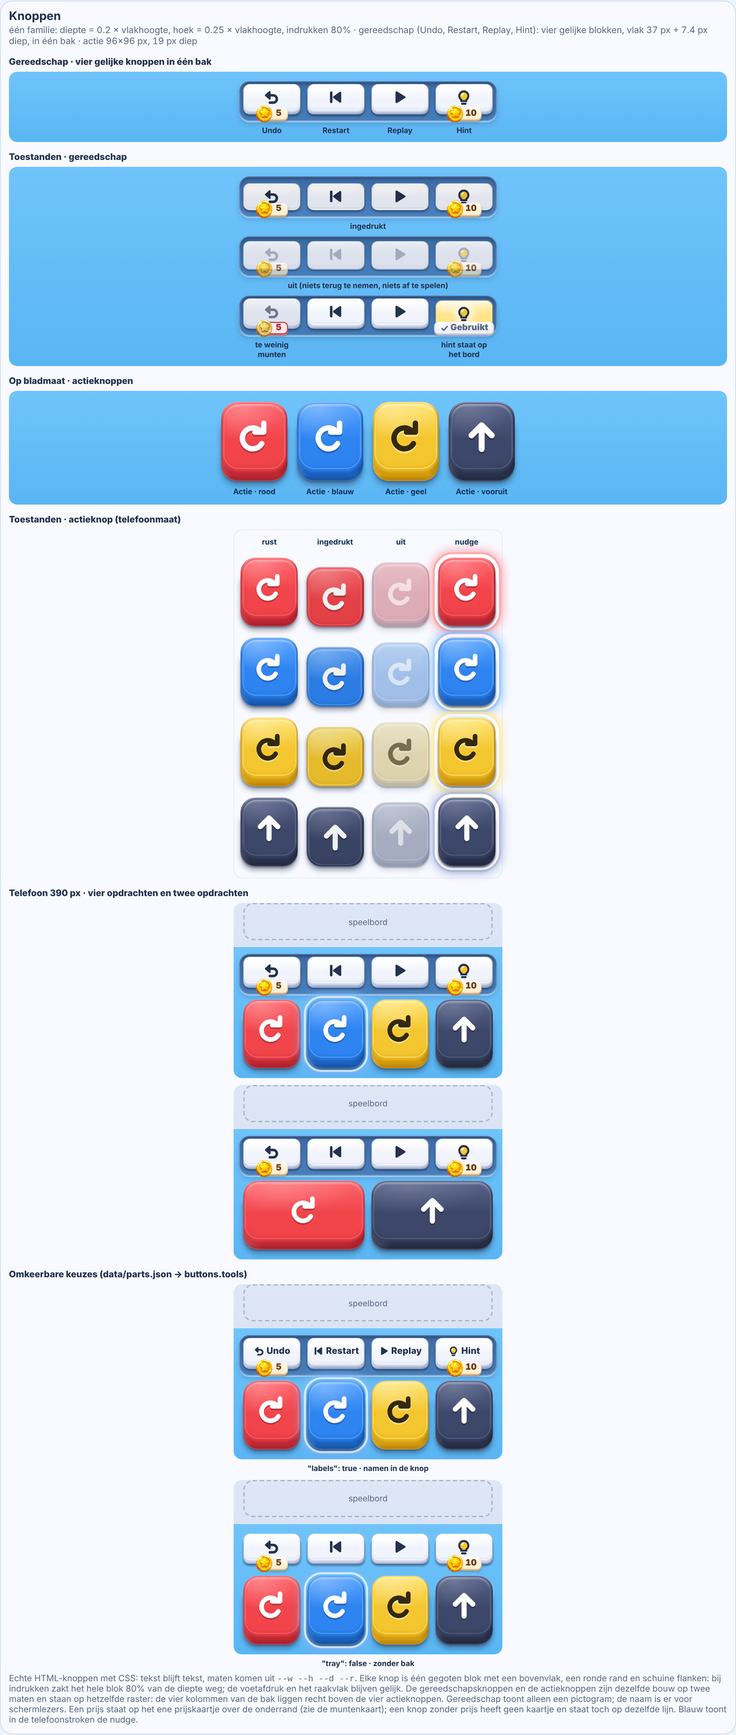
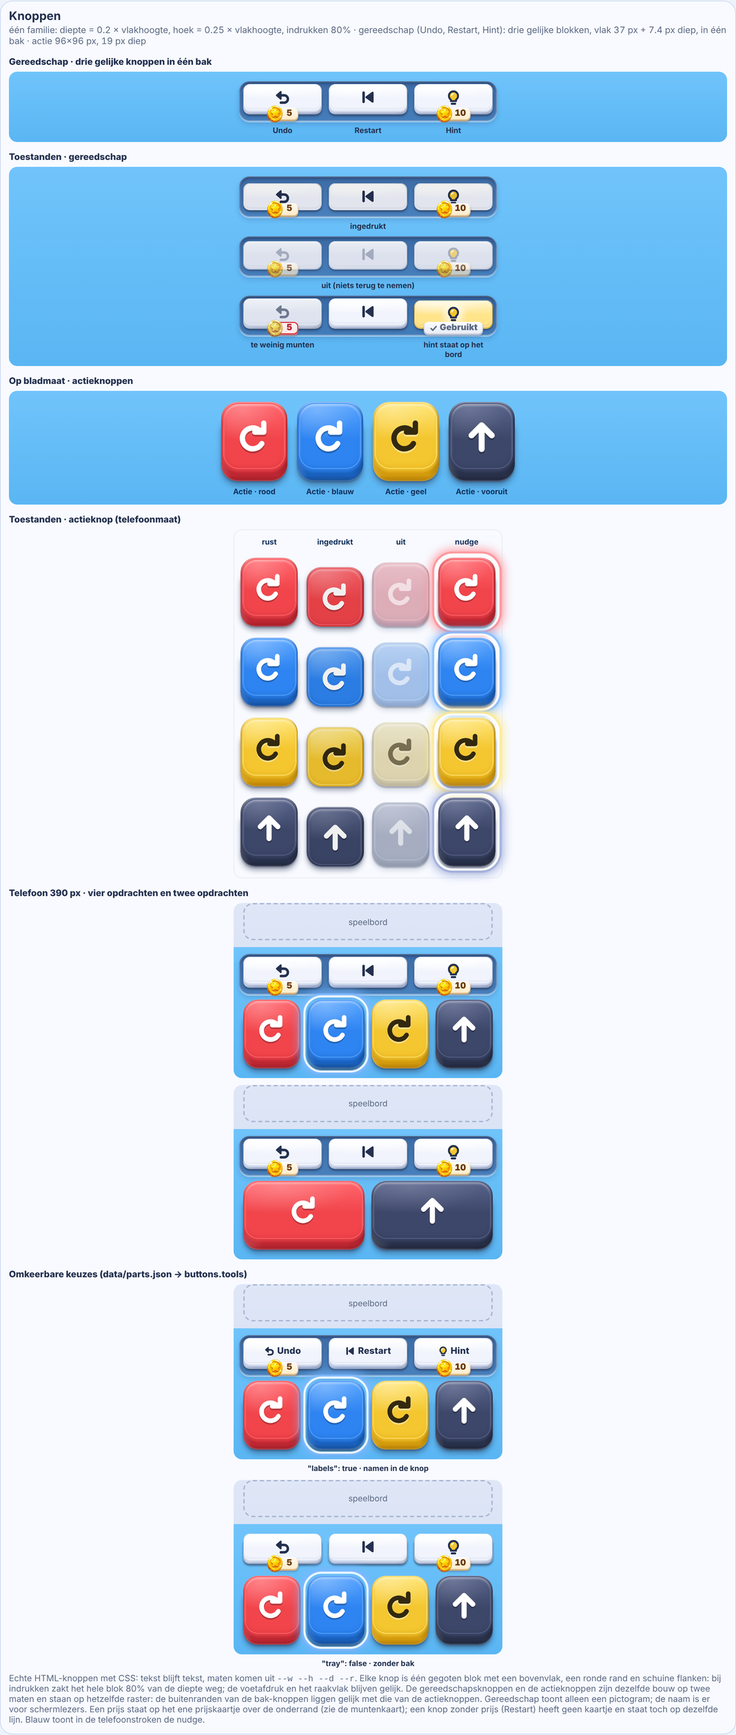
feat: drop Replay from the puzzle screen's tools (finding B9)
The owner does not need Replay during play; it stays on the win pop-up.
The tray now holds three equal tools (Undo, Restart, Hint) and takes any
number of them. The earlier B9 screenshots with four tools are kept as the
record of the first pass; B9-no-replay-* show the result.

Finding: B9 (production/findings.md)

Claude-Session: https://claude.ai/code/session_01PBSmYtD2jx8mxAakiG6F2L

diff --git a/src/parts/main.ts b/src/parts/main.ts
@@ -320,7 +320,7 @@ for (const [cols, rows] of [[5, 5], [6, 6], [8, 8], [4, 7]] as const) {
   const COLORS = ['red', 'blue', 'yellow', 'forward'] as const;
   const COLOR_NAMES = { red: 'rood', blue: 'blauw', yellow: 'geel', forward: 'vooruit' } as const;
 
-  const TOOLS: ToolName[] = ['Undo', 'Restart', 'Replay', 'Hint'];
+  const TOOLS: ToolName[] = ['Undo', 'Restart', 'Hint'];
   const coins = CONFIG.coins;
   /** The four tools as the puzzle screen shows them; `state` freezes all four in one state. */
   const tools = (state: State = ''): string[] =>
@@ -336,14 +336,14 @@ for (const [cols, rows] of [[5, 5], [6, 6], [8, 8], [4, 7]] as const) {
   const el = document.createElement('section');
   el.className = 'card wide';
   el.id = 'buttons';
-  el.innerHTML = `<h2>Knoppen</h2><p class="dims">één familie: diepte = ${b.family.depth} × vlakhoogte, hoek = ${b.family.radius} × vlakhoogte, indrukken ${Math.round(b.pressFraction * 100)}% · gereedschap (Undo, Restart, Replay, Hint): vier gelijke blokken, vlak ${t.height} px + ${toolDepth} px diep, in één bak · actie ${b.action.width}×${b.action.height} px, ${b.action.depth} px diep</p>
-  <h3 class="btn-title">Gereedschap · vier gelijke knoppen in één bak</h3>
+  el.innerHTML = `<h2>Knoppen</h2><p class="dims">één familie: diepte = ${b.family.depth} × vlakhoogte, hoek = ${b.family.radius} × vlakhoogte, indrukken ${Math.round(b.pressFraction * 100)}% · gereedschap (Undo, Restart, Hint): drie gelijke blokken, vlak ${t.height} px + ${toolDepth} px diep, in één bak · actie ${b.action.width}×${b.action.height} px, ${b.action.depth} px diep</p>
+  <h3 class="btn-title">Gereedschap · drie gelijke knoppen in één bak</h3>
   <div id="buttons-sheet">${toolTray(tools())}<div class="tf-tools-caption">${TOOLS.map((n) => `<span>${n}</span>`).join('')}</div></div>
   <h3 class="btn-title">Toestanden · gereedschap</h3>
   <div id="buttons-states-utility">
     ${toolTray(tools('pressed'))}<div class="tf-tools-caption wide"><span>ingedrukt</span></div>
-    ${toolTray(tools('disabled'))}<div class="tf-tools-caption wide"><span>uit (niets terug te nemen, niets af te spelen)</span></div>
-    ${toolTray([toolButton('Undo', { cost: coins.undoCost, price: 'short' }), toolButton('Restart'), toolButton('Replay'), toolButton('Hint', { cost: coins.hintCost, price: 'used' })])}<div class="tf-tools-caption"><span>te weinig munten</span><span></span><span></span><span>hint staat op het bord</span></div>
+    ${toolTray(tools('disabled'))}<div class="tf-tools-caption wide"><span>uit (niets terug te nemen)</span></div>
+    ${toolTray([toolButton('Undo', { cost: coins.undoCost, price: 'short' }), toolButton('Restart'), toolButton('Hint', { cost: coins.hintCost, price: 'used' })])}<div class="tf-tools-caption"><span>te weinig munten</span><span></span><span>hint staat op het bord</span></div>
   </div>
   <h3 class="btn-title">Op bladmaat · actieknoppen</h3>
   <div class="btn-row" id="buttons-sheet-action">
@@ -360,7 +360,7 @@ for (const [cols, rows] of [[5, 5], [6, 6], [8, 8], [4, 7]] as const) {
   <h3 class="btn-title">Omkeerbare keuzes (data/parts.json → buttons.tools)</h3>
   ${phone('buttons-phone-labels', COLORS, ' labels')}<div class="tf-tools-caption wide"><span>"labels": true · namen in de knop</span></div>
   ${phone('buttons-phone-notray', COLORS, ' no-tray')}<div class="tf-tools-caption wide"><span>"tray": false · zonder bak</span></div>
-  <p class="note">Echte HTML-knoppen met CSS: tekst blijft tekst, maten komen uit <code>--w --h --d --r</code>. Elke knop is één gegoten blok met een bovenvlak, een ronde rand en schuine flanken: bij indrukken zakt het hele blok ${Math.round(b.pressFraction * 100)}% van de diepte weg; de voetafdruk en het raakvlak blijven gelijk. De gereedschapsknoppen en de actieknoppen zijn dezelfde bouw op twee maten en staan op hetzelfde raster: de vier kolommen van de bak liggen recht boven de vier actieknoppen. Gereedschap toont alleen een pictogram; de naam is er voor schermlezers. Een prijs staat op het ene prijskaartje over de onderrand (zie de muntenkaart); een knop zonder prijs heeft geen kaartje en staat toch op dezelfde lijn. Blauw toont in de telefoonstroken de nudge.</p>`;
+  <p class="note">Echte HTML-knoppen met CSS: tekst blijft tekst, maten komen uit <code>--w --h --d --r</code>. Elke knop is één gegoten blok met een bovenvlak, een ronde rand en schuine flanken: bij indrukken zakt het hele blok ${Math.round(b.pressFraction * 100)}% van de diepte weg; de voetafdruk en het raakvlak blijven gelijk. De gereedschapsknoppen en de actieknoppen zijn dezelfde bouw op twee maten en staan op hetzelfde raster: de buitenranden van de bak-knoppen liggen gelijk met die van de actieknoppen. Gereedschap toont alleen een pictogram; de naam is er voor schermlezers. Een prijs staat op het ene prijskaartje over de onderrand (zie de muntenkaart); een knop zonder prijs (Restart) heeft geen kaartje en staat toch op dezelfde lijn. Blauw toont in de telefoonstroken de nudge.</p>`;
   document.getElementById('sheet')!.appendChild(el);
 }
 

diff --git a/src/parts/coins.ts b/src/parts/coins.ts
@@ -83,7 +83,6 @@ const path = (d: string, width: number): string => `<path d="${d}" fill="none" s
 export const TOOL_ICONS = {
   Undo: `<path d="M9.4 4.2 3.6 9.3l5.8 5.1z" fill="currentColor" stroke="currentColor" stroke-width="2.4" stroke-linejoin="round"/>` + path('M9 9.3h5.4a5.3 5.3 0 0 1 0 10.6H9.6', 3.6),
   Restart: path('M5.6 5.4v13.2', 3.6) + `<path d="M18.6 5.6v12.8L9.8 12z" fill="currentColor" stroke="currentColor" stroke-width="3" stroke-linejoin="round"/>`,
-  Replay: `<path d="M7.4 5v14l11.4-7z" fill="currentColor" stroke="currentColor" stroke-width="3" stroke-linejoin="round"/>`,
   Hint: `<path d="M8.3 15.6a6.6 6.6 0 1 1 7.4 0v2H8.3z" fill="#f4c62f" stroke="currentColor" stroke-width="2.8" stroke-linejoin="round"/>` + path('M9.6 21.4h4.8', 3) + `<path d="M9.3 9.4a2.9 2.9 0 0 1 2.2-2.2" fill="none" stroke="#fff" stroke-width="1.7" stroke-linecap="round"/>`,
 };
 /** A tool's name on the sheet. */
@@ -94,7 +93,7 @@ export interface ToolView {
   readonly price?: PriceState;
   readonly state?: '' | 'pressed' | 'disabled';
 }
-/** One tool of the puzzle screen's tray: the same block for Undo, Restart, Replay and Hint. */
+/** One tool of the puzzle screen's tray: the same block for Undo, Restart and Hint. */
 export function toolButton(name: ToolName, view: ToolView = {}): string {
   const used = view.price === 'used';
   const cls = `tf-btn tf-utility${view.price ? ' tf-paid' : ''}${view.price === 'short' ? ' short' : ''}${view.state === 'pressed' ? ' pressed' : ''}${used ? ' showing' : ''}`;
@@ -282,7 +281,7 @@ export function addCoinCards(sheet: HTMLElement): void {
     <div id="coins-price-compact">${toolTray([toolButton('Undo', { cost: COINS.undoCost, price: 'ok' }), toolButton('Undo', { cost: COINS.undoCost, price: 'short' }), toolButton('Undo', { cost: 0, price: 'free' }), toolButton('Undo', { cost: 1250, price: 'ok' })])}<div class="tf-tools-caption"><span>betaalbaar</span><span>te weinig munten</span><span>gratis</span><span>1 250</span></div></div>
     <h3 class="btn-title">${offerName} · ${COINS.extraMovesCost} munten</h3>
     <div class="btn-row panel tf-coin-offers" id="coins-price-offer">${PRICE_STATES.map((s) => cell(offer(s, '290px'), PRICE_LABEL[s])).join('')}</div>
-    <p class="note">Eén prijskaartje voor alles wat munten kost (bevinding B9): de munt ligt over het linkereind van een crème plaatje met het bedrag, en het kaartje staat altijd op dezelfde plek, midden over de onderrand van de knop. De prijs is dus te lezen vóór het tikken. Te weinig munten: het kaartje wordt rood en de knop dof, maar hij blijft tikbaar en de teller antwoordt met zijn schudje. Gratis (testlab): het woord "Gratis" in groen, zonder munt. Al gebruikt: een grijs kaartje met een vinkje; bij Hint brandt de lamp zolang de hint op het bord staat. Een knop zonder prijs (Restart, Replay) heeft geen kaartje; de rij houdt de ruimte eronder wel vrij, zodat alle knoppen op één lijn staan.</p>`,
+    <p class="note">Eén prijskaartje voor alles wat munten kost (bevinding B9): de munt ligt over het linkereind van een crème plaatje met het bedrag, en het kaartje staat altijd op dezelfde plek, midden over de onderrand van de knop. De prijs is dus te lezen vóór het tikken. Te weinig munten: het kaartje wordt rood en de knop dof, maar hij blijft tikbaar en de teller antwoordt met zijn schudje. Gratis (testlab): het woord "Gratis" in groen, zonder munt. Al gebruikt: een grijs kaartje met een vinkje; bij Hint brandt de lamp zolang de hint op het bord staat. Een knop zonder prijs (Restart) heeft geen kaartje; de rij houdt de ruimte eronder wel vrij, zodat alle knoppen op één lijn staan.</p>`,
   );
 
   // 4. The reward.

diff --git a/index.html b/index.html
@@ -60,10 +60,9 @@
         <main class="stage"><canvas id="board"></canvas></main>
         <div class="hint-line" id="hint" role="status" aria-live="polite"></div>
         <footer class="controls">
-          <div class="tf-tools tools" id="tools" role="group" aria-label="Undo, Restart, Replay and Hint">
+          <div class="tf-tools tools" id="tools" role="group" aria-label="Undo, Restart and Hint">
             <button type="button" class="tf-btn tf-utility" id="undo" aria-label="Undo"><span class="tf-clip"><span class="tf-face"><svg viewBox="0 0 24 24" aria-hidden="true"><path d="M9.4 4.2 3.6 9.3l5.8 5.1z" fill="currentColor" stroke="currentColor" stroke-width="2.4" stroke-linejoin="round"></path><path d="M9 9.3h5.4a5.3 5.3 0 0 1 0 10.6H9.6" fill="none" stroke="currentColor" stroke-width="3.6" stroke-linecap="round" stroke-linejoin="round"></path></svg><span class="tf-label">Undo</span></span></span></button>
             <button type="button" class="tf-btn tf-utility" id="restart" aria-label="Restart"><span class="tf-clip"><span class="tf-face"><svg viewBox="0 0 24 24" aria-hidden="true"><path d="M5.6 5.4v13.2" fill="none" stroke="currentColor" stroke-width="3.6" stroke-linecap="round" stroke-linejoin="round"></path><path d="M18.6 5.6v12.8L9.8 12z" fill="currentColor" stroke="currentColor" stroke-width="3" stroke-linejoin="round"></path></svg><span class="tf-label">Restart</span></span></span></button>
-            <button type="button" class="tf-btn tf-utility" id="replay" aria-label="Replay"><span class="tf-clip"><span class="tf-face"><svg viewBox="0 0 24 24" aria-hidden="true"><path d="M7.4 5v14l11.4-7z" fill="currentColor" stroke="currentColor" stroke-width="3" stroke-linejoin="round"></path></svg><span class="tf-label">Replay</span></span></span></button>
             <button type="button" class="tf-btn tf-utility" id="scan" aria-label="Hint"><span class="tf-clip"><span class="tf-face"><svg viewBox="0 0 24 24" aria-hidden="true"><path d="M8.3 15.6a6.6 6.6 0 1 1 7.4 0v2H8.3z" fill="#f4c62f" stroke="currentColor" stroke-width="2.8" stroke-linejoin="round"></path><path d="M9.6 21.4h4.8" fill="none" stroke="currentColor" stroke-width="3" stroke-linecap="round" stroke-linejoin="round"></path><path d="M9.3 9.4a2.9 2.9 0 0 1 2.2-2.2" fill="none" stroke="#fff" stroke-width="1.7" stroke-linecap="round"></path></svg><span class="tf-label">Hint</span></span></span></button>
           </div>
           <div class="commands" id="commands">

diff --git a/tests/integration/boot.spec.ts b/tests/integration/boot.spec.ts
@@ -307,10 +307,10 @@ test('the bottom buttons are one set, and every price is the same tag in the sam
   await open(page);
   await page.click('#node-1');
   await press(page, 'forward');
-  const ids = ['undo', 'restart', 'replay', 'scan'];
+  const ids = ['undo', 'restart', 'scan'];
   const boxes = [];
   for (const id of ids) boxes.push((await page.locator(`#${id}`).boundingBox())!);
-  // Four equal blocks on one line, each a full touch target.
+  // Equal blocks on one line, each a full touch target.
   for (const box of boxes) {
     expect(box.width).toBeCloseTo(boxes[0].width, 0);
     expect(box.height).toBeCloseTo(boxes[0].height, 0);
@@ -319,9 +319,10 @@ test('the bottom buttons are one set, and every price is the same tag in the sam
   }
   // A picture only, so each has its name for a screen reader.
   await expect(page.locator('#restart')).toHaveAttribute('aria-label', 'Restart');
-  await expect(page.locator('#replay')).toHaveAttribute('aria-label', 'Replay');
+  // Replay is not on the puzzle screen; it is on the win pop-up.
+  await expect(page.locator('#replay')).toHaveCount(0);
   // A price is one tag over the bottom edge, in the middle; a free tool has none.
-  await expect(page.locator('#restart .tf-coin-price, #replay .tf-coin-price')).toHaveCount(0);
+  await expect(page.locator('#restart .tf-coin-price')).toHaveCount(0);
   const hang: number[] = [];
   for (const [i, id] of ids.entries()) {
     if (id !== 'undo' && id !== 'scan') continue;
@@ -338,7 +339,7 @@ test('the bottom buttons are one set, and every price is the same tag in the sam
   expect(boxes[0].y + boxes[0].height + hang[0]).toBeLessThanOrEqual(commands.y);
   // The tools tray and the command row share one grid: the outer columns line up.
   expect(boxes[0].x).toBeCloseTo(commands.x, 0);
-  expect(boxes[3].x + boxes[3].width).toBeCloseTo(commands.x + commands.width, 0);
+  expect(boxes[2].x + boxes[2].width).toBeCloseTo(commands.x + commands.width, 0);
 });
 
 test('Hint: the status is free, the next move costs coins and is drawn on the board, and without coins it is refused', async ({ page }) => {

diff --git a/src/ui/tf-buttons.css b/src/ui/tf-buttons.css
@@ -73,13 +73,13 @@
 .tf-hint { --icon: calc(var(--h) * .66); }
 .tf-hint.compact .tf-label { display: none; }
 
-/* The tools of the puzzle screen (finding B9): Undo, Restart, Replay and Hint are one block design, four times, standing
+/* The tools of the puzzle screen (finding B9): Undo, Restart and Hint are one block design, standing
    together in one tray. Same size, depth, radius, material and icon weight; a picture only, with the name for screen
    readers (`.labels` on the row shows the names instead). A tool with a price carries the price tag over its bottom edge;
-   the row keeps that space free under every tool, priced or not, so the four stand level. */
+   the row keeps that space free under every tool, priced or not, so they all stand level. Replay is not here: it is on the win pop-up. */
 .tf-tools {
   --tool-h: 37px; --tool-gap: 10px; --tray-pad: 6px; --tag-over: 8px;
-  position: relative; display: grid; grid-template-columns: repeat(4, minmax(0, 1fr)); gap: var(--tool-gap);
+  position: relative; display: grid; grid-auto-flow: column; grid-auto-columns: minmax(0, 1fr); gap: var(--tool-gap);
   margin: 0 calc(var(--tray-pad) * -1); padding: 4px var(--tray-pad) calc(var(--tag-over) + 2px); border-radius: calc(var(--tool-h) * .25 + var(--tray-pad));
   background: linear-gradient(180deg, rgba(30, 52, 110, .62), rgba(40, 66, 130, .5));
   box-shadow: inset 0 3px 5px rgba(10, 20, 54, .45), inset 0 0 0 1.5px rgba(255, 255, 255, .34), 0 1.5px 0 rgba(255, 255, 255, .45), 0 4px 8px rgba(24, 46, 110, .2);

diff --git a/src/ui/hud.ts b/src/ui/hud.ts
@@ -14,7 +14,6 @@ export interface HudModel {
   total: number;
   movesLeft: number;
   canUndo: boolean;
-  canReplay: boolean;
   canScan: boolean;
   inputLocked: boolean;
   colorsInLevel: ReadonlySet<Color>;
@@ -39,7 +38,6 @@ export interface HudHandlers {
   command(c: Command): void;
   undo(): void;
   restart(): void;
-  replay(): void;
   scan(): void;
   back(): void;
 }
@@ -78,7 +76,6 @@ export class Hud {
     }
     el('undo').addEventListener('click', () => handlers.undo());
     el('restart').addEventListener('click', () => handlers.restart());
-    el('replay').addEventListener('click', () => handlers.replay());
     el('scan').addEventListener('click', () => handlers.scan());
     el('levelBack').addEventListener('click', () => handlers.back());
     window.addEventListener('keydown', (e) => {
@@ -118,7 +115,6 @@ export class Hud {
     setPrice(undo, 'Undo', m.undoCost, m.undoState);
     undo.disabled = !m.canUndo;
     el<HTMLButtonElement>('restart').disabled = !m.canUndo;
-    el<HTMLButtonElement>('replay').disabled = !m.canReplay;
     const scan = el<HTMLButtonElement>('scan');
     setPrice(scan, 'Hint', m.hintCost, m.hintState);
     scan.disabled = !m.canScan || m.hintState === 'used';

diff --git a/src/parts/parts.css b/src/parts/parts.css
@@ -43,8 +43,8 @@ body { margin: 0; background: #eef3fb; color: var(--ink); font-family: ui-rounde
 .card > div > .tf-tools, #buttons-states-utility > .tf-tools { margin: 0 auto; }
 #buttons-sheet, #buttons-states-utility, #coins-price-hint, #coins-price-compact { padding: 14px 0 10px; background: linear-gradient(180deg, #70c4fb, #5ab6f3); border-radius: 12px; }
 #buttons-states-utility > .tf-tools:not(:first-child) { margin-top: 8px; }
-.tf-tools-caption { width: 362px; margin: 6px auto 0; display: grid; grid-template-columns: repeat(4, 1fr); gap: 10px; text-align: center; font-size: 11px; font-weight: 700; color: #24314f; }
-.tf-tools-caption.wide { grid-template-columns: 1fr; }
+.tf-tools-caption { width: 362px; margin: 6px auto 0; display: grid; grid-auto-flow: column; grid-auto-columns: minmax(0, 1fr); gap: 10px; text-align: center; font-size: 11px; font-weight: 700; color: #24314f; }
+.tf-tools-caption.wide { grid-auto-columns: 1fr; }
 
 /* Flockbot cards: the bot at the size it has on the board. */
 .bot-small { display: flex; flex-wrap: wrap; align-items: center; gap: 4px; margin-top: 8px; padding: 6px; border-radius: 12px; background: #eef2fb; }

diff --git a/src/main.ts b/src/main.ts
@@ -140,7 +140,6 @@ class Game {
         command: (c) => this.command(c),
         undo: () => this.undo(),
         restart: () => this.restart(),
-        replay: () => void this.replay(),
         scan: () => void this.scan(),
         back: () => this.show('map'),
       },
@@ -436,7 +435,6 @@ class Game {
       total: this.session.total,
       movesLeft: this.session.movesLeft,
       canUndo: this.session.commands.length > 0 && !this.replaying && !this.busy,
-      canReplay: this.session.commands.length > 0 && !this.replaying && !this.busy,
       canScan: status !== 'won' && !this.replaying && !this.busy,
       inputLocked: this.replaying || this.busy || status !== 'playing',
       colorsInLevel: colors,

diff --git a/data/config-notes.md b/data/config-notes.md
@@ -57,9 +57,9 @@ Dimensions of the standalone game elements, in cell units (1 cell = `unitPx` 56 
   - `logo.levels.rowMaxHeight` — largest logo height in the `row` layout (never more than 46 on a screen 620 or lower, so the row keeps its height).
   - `logo.intro` — the optional opening moment: `enabled` (off until the owner chooses it), `seconds` for the whole move, `scale` for how much larger the logo starts (1.35 fits a 390 screen). The level selection is already there and tappable underneath; it does not run under reduced motion.
 - `buttons.family` and `buttons.tools` (in `data/parts.json`) — the bottom area of the puzzle screen as one set (finding B9, 2026-11-22; styles `tf-tools` in `src/ui/tf-buttons.css`, layout in `src/ui/style.css`, applied by `src/ui/hud.ts`).
-  - `buttons.family.depth`, `radius` — the one build rule for every block down there, the four tools and the command buttons alike: the front wall is `depth` × the face height, the corner `radius` × the face height (0.2 and 0.25, the command buttons' old proportions).
-  - `buttons.tools.height` — face height of a tool (Undo, Restart, Replay, Hint) in CSS pixels. With the wall it is the touch target, so `height × (1 + family.depth)` must stay 44 or more (37 gives 44.4). `gap` is the space between tools on the parts sheet; in the game it is the command row's 10 px, so the columns line up.
-  - `buttons.tools.tray` — `true`: the four tools stand in one rounded tray. `false`: no tray, same places.
+  - `buttons.family.depth`, `radius` — the one build rule for every block down there, the tools and the command buttons alike: the front wall is `depth` × the face height, the corner `radius` × the face height (0.2 and 0.25, the command buttons' old proportions).
+  - `buttons.tools.height` — face height of a tool (Undo, Restart, Hint; Replay is only on the win pop-up) in CSS pixels. With the wall it is the touch target, so `height × (1 + family.depth)` must stay 44 or more (37 gives 44.4). `gap` is the space between tools on the parts sheet; in the game it is the command row's 10 px, and the outer edges line up with the command row.
+  - `buttons.tools.tray` — `true`: the tools stand in one rounded tray. `false`: no tray, same places.
   - `buttons.tools.labels` — `false`: a tool shows its picture only (its name is there for screen readers). `true`: the name stands beside the picture, in small type (11 px on a 320 px phone).
 - `coins.price`, `coins.priceSmall` (in `data/parts.json`) — the one price tag (finding B9; `priceTag` in `src/ui/coins.ts`, styles `tf-coin-price` and `tf-coin-slot` in `src/ui/tf-coins.css`): the coin over the left end of a cream plate with the amount, always centred over the bottom edge of its button. `height` and `font` scale it (every other measure follows the height): `priceSmall` on the tools of the puzzle screen, `price` on the "+3 moves" offer and the Undo of the out-of-moves pop-up. `over` records how far it hangs below the button (the CSS `--tag-over`: 8 px in the tools tray, 6 px on a screen lower than 620 px, 9 px in the pop-up). Four states, the same everywhere: affordable (cream), cannot afford (red, the button dull but tappable), free (green word, no coin), already used (grey, a tick).
 - `coins.fly` (in `data/parts.json`) — the coins that fly from the win pop-up to the coin counter (finding B6, 2026-11-22; code in `src/ui/coins.ts`, styles `tf-coin-fly` in `src/ui/tf-coins.css`). `count`: how many coins fly, a fixed handful and never more than were earned (6). `size`: a flying coin in CSS pixels; it shrinks to the counter's coin as it lands. `delayMs`: wait after the pop-up appears, so the stars land first. `flightMs`: one coin's flight. `staggerMs`: time between two coins leaving. `scatter`: how far, in pixels, the coins start apart around the pop-up's coin. `bumpMs`: the counter's bump on each landing. `highlightMs`: how long the counter keeps its gold rim after the last landing, and the whole highlight under reduced motion, where nothing flies. The whole flight lasts `delayMs + (count − 1) × staggerMs + flightMs` (about 2 s); it never blocks a button, and any way out of the pop-up ends it at once on the true balance.

diff --git a/production/findings.md b/production/findings.md
@@ -70,4 +70,4 @@ Gezien bij B8, niet aangepast (valt buiten de bevinding): in de simulatie van ro
 
 | Nr | Bevinding (woorden van de eigenaar) | Afgehandeld | Commit | Wat er nu in het spel zit |
 |---|---|---|---|---|
-| B9 | Knoppen onderin allemaal in dezelfde stijl, zodat ze bij elkaar horen. Eenduidige manier van prijs aangeven als dat van toepassing is. Voorbeeld: `design/reference/turnflock/source/buttons-price-reference.jpg` | 2026-11-22 | `d710e3b` (branch `claude/turnflock-bottom-buttons`) | Undo, Restart, Replay en Hint zijn vier gelijke witte blokken (zelfde maat, diepte, hoek, pictogramdikte) in één bak boven de opdrachtknoppen, op hetzelfde raster van vier kolommen. Alleen een pictogram; de naam is er voor schermlezers. Restart heeft een eigen pictogram (terug naar het begin), zodat hij niet meer op een draaiknop lijkt. Een prijs staat overal op hetzelfde kaartje: de munt over het linkereind van een crème plaatje met het bedrag, midden over de onderrand van de knop. Vier vaste toestanden: betaalbaar, te weinig munten (rood, knop dof maar tikbaar), gratis (groen woord), al gebruikt (grijs met vinkje; de Hint-lamp brandt zolang de hint op het bord staat). Hetzelfde kaartje staat op "+3 moves" en op Undo in de pop-up "Out of moves". Opdrachtknoppen en gereedschap delen één bouwregel (diepte 0,2 en hoek 0,25 van de vlakhoogte). Het bord verliest geen hoogte. Omkeerbaar in `data/parts.json` → `buttons.tools`: `labels` (namen in de knop) en `tray` (bak). Prijzen, aanbiedingen en regels zijn niet veranderd. Bewijs: `production/qa/evidence/findings-bottom-buttons/`. |
+| B9 | Knoppen onderin allemaal in dezelfde stijl, zodat ze bij elkaar horen. Eenduidige manier van prijs aangeven als dat van toepassing is. Voorbeeld: `design/reference/turnflock/source/buttons-price-reference.jpg` | 2026-11-22 | `d710e3b` (branch `claude/turnflock-bottom-buttons`) | Undo, Restart en Hint zijn drie gelijke witte blokken (zelfde maat, diepte, hoek, pictogramdikte) in één bak boven de opdrachtknoppen, met dezelfde buitenranden en tussenruimte. Replay staat op verzoek van de eigenaar niet meer op het puzzelscherm (hij zit in de pop-up na een gehaald level). Alleen een pictogram; de naam is er voor schermlezers. Restart heeft een eigen pictogram (terug naar het begin), zodat hij niet meer op een draaiknop lijkt. Een prijs staat overal op hetzelfde kaartje: de munt over het linkereind van een crème plaatje met het bedrag, midden over de onderrand van de knop. Vier vaste toestanden: betaalbaar, te weinig munten (rood, knop dof maar tikbaar), gratis (groen woord), al gebruikt (grijs met vinkje; de Hint-lamp brandt zolang de hint op het bord staat). Hetzelfde kaartje staat op "+3 moves" en op Undo in de pop-up "Out of moves". Opdrachtknoppen en gereedschap delen één bouwregel (diepte 0,2 en hoek 0,25 van de vlakhoogte). Het bord verliest geen hoogte. Omkeerbaar in `data/parts.json` → `buttons.tools`: `labels` (namen in de knop) en `tray` (bak). Prijzen, aanbiedingen en regels zijn niet veranderd. Bewijs: `production/qa/evidence/findings-bottom-buttons/`. |
